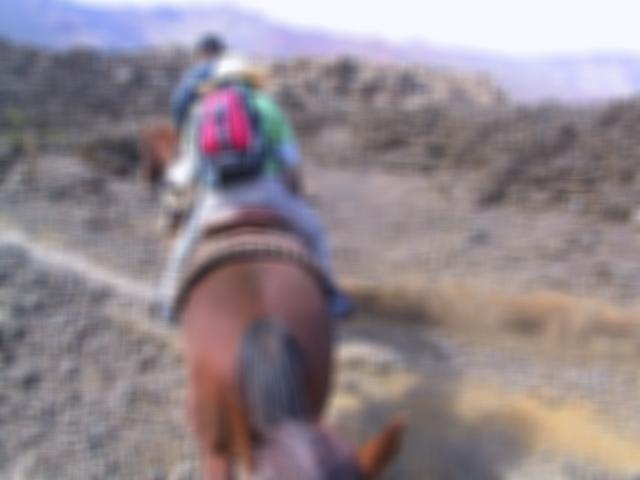
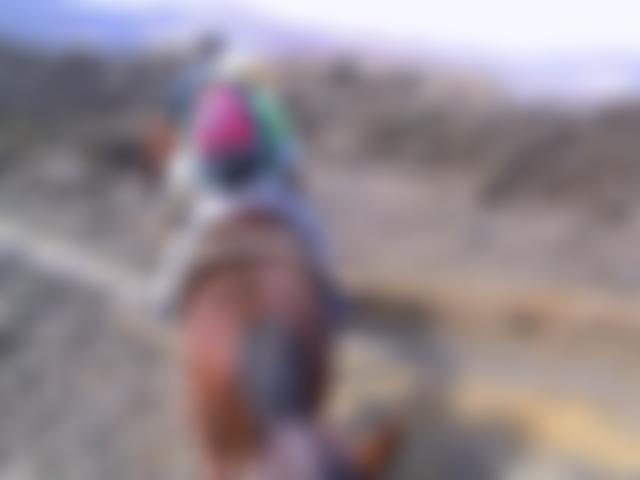
update

diff --git a/routes/salicon.js b/routes/salicon.js
@@ -38,7 +38,11 @@ router.get('/images', function(req, res) {
       var images = result;
 
       if (hitId.search("TEST") != -1) {
-        images = _.sample(images, 2);
+        // images = _.sample(images, 2);
+        var img = _.find(images, function(item){
+          return item.img_url == "/images/salicon-db-pilot/targets/example-salicon.jpg";
+        });
+        images = [img];
       }
       // target images
       var shuffled = _.shuffle(images);
@@ -58,7 +62,6 @@ router.get('/images', function(req, res) {
   });
 });
 router.post('/recaptcha', function(req, res) {
-
   var postData = {
     secret: '6LcvMf8SAAAAANwRhpM0Mt7JH46AqFDwnfMzMiHg',
     ip: req.ip,

diff --git a/scripts/salicon/blur_images.m b/scripts/salicon/blur_images.m
@@ -4,7 +4,7 @@ images = dir('./targets/*.jpg');
 
 mkdir('targets_blurred')
 
-H = fspecial('gaussian',15,15); 
+H = fspecial('gaussian',40,40); 
 
 % read image
 for i=1:length(images)
